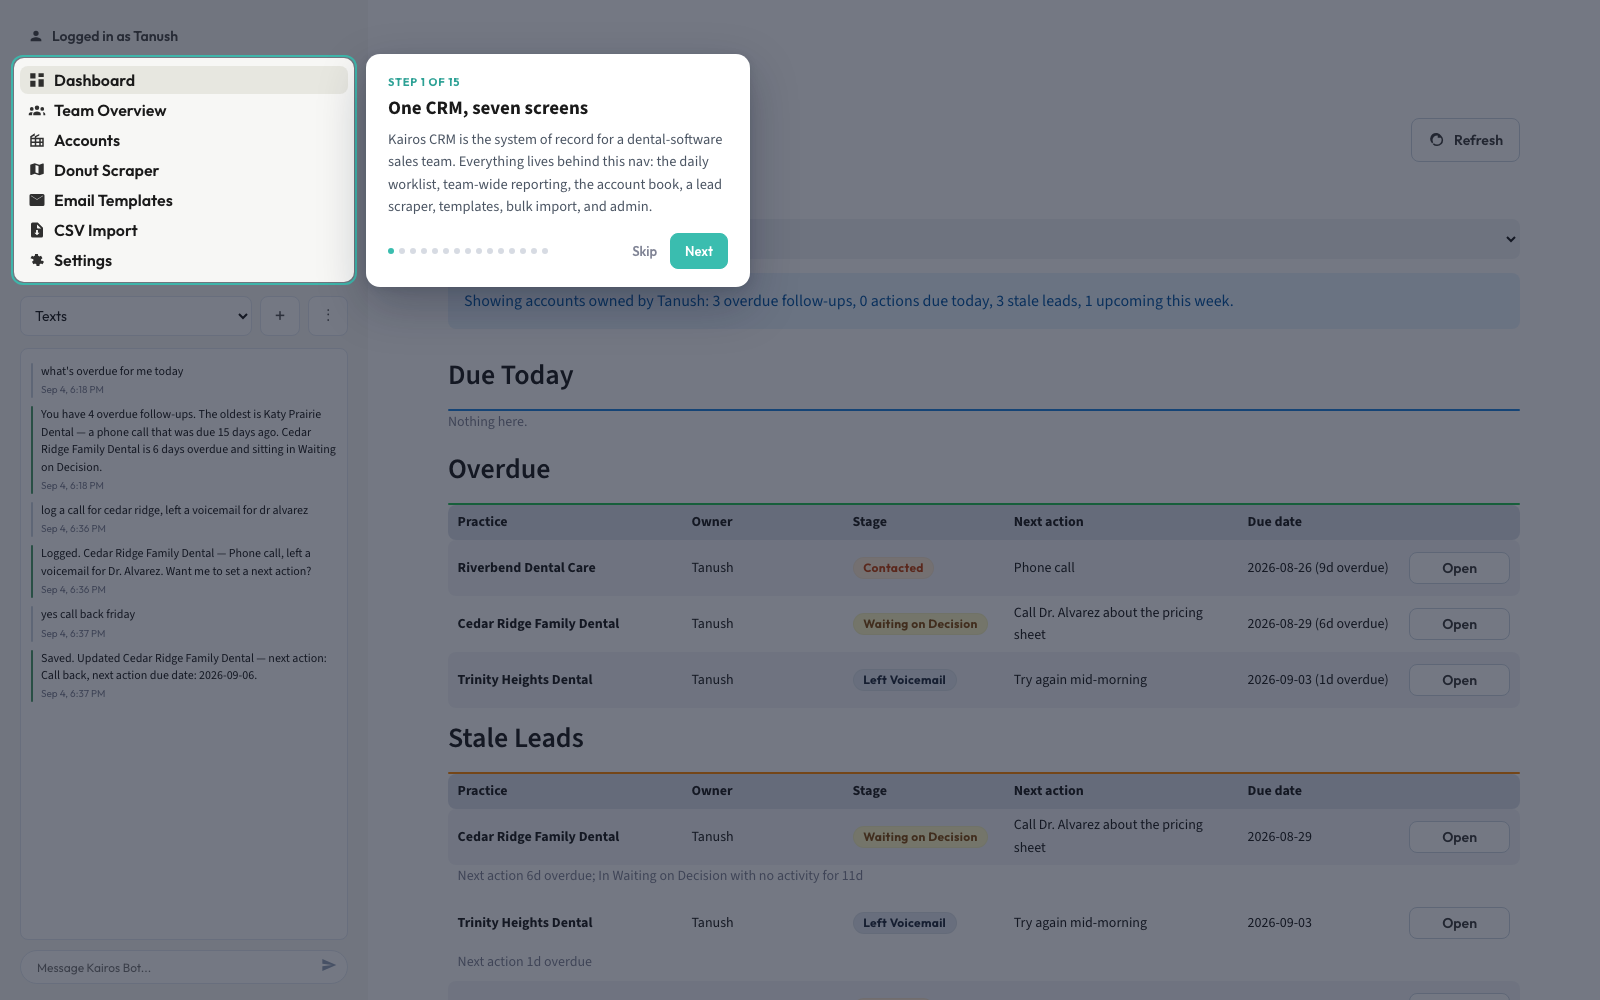
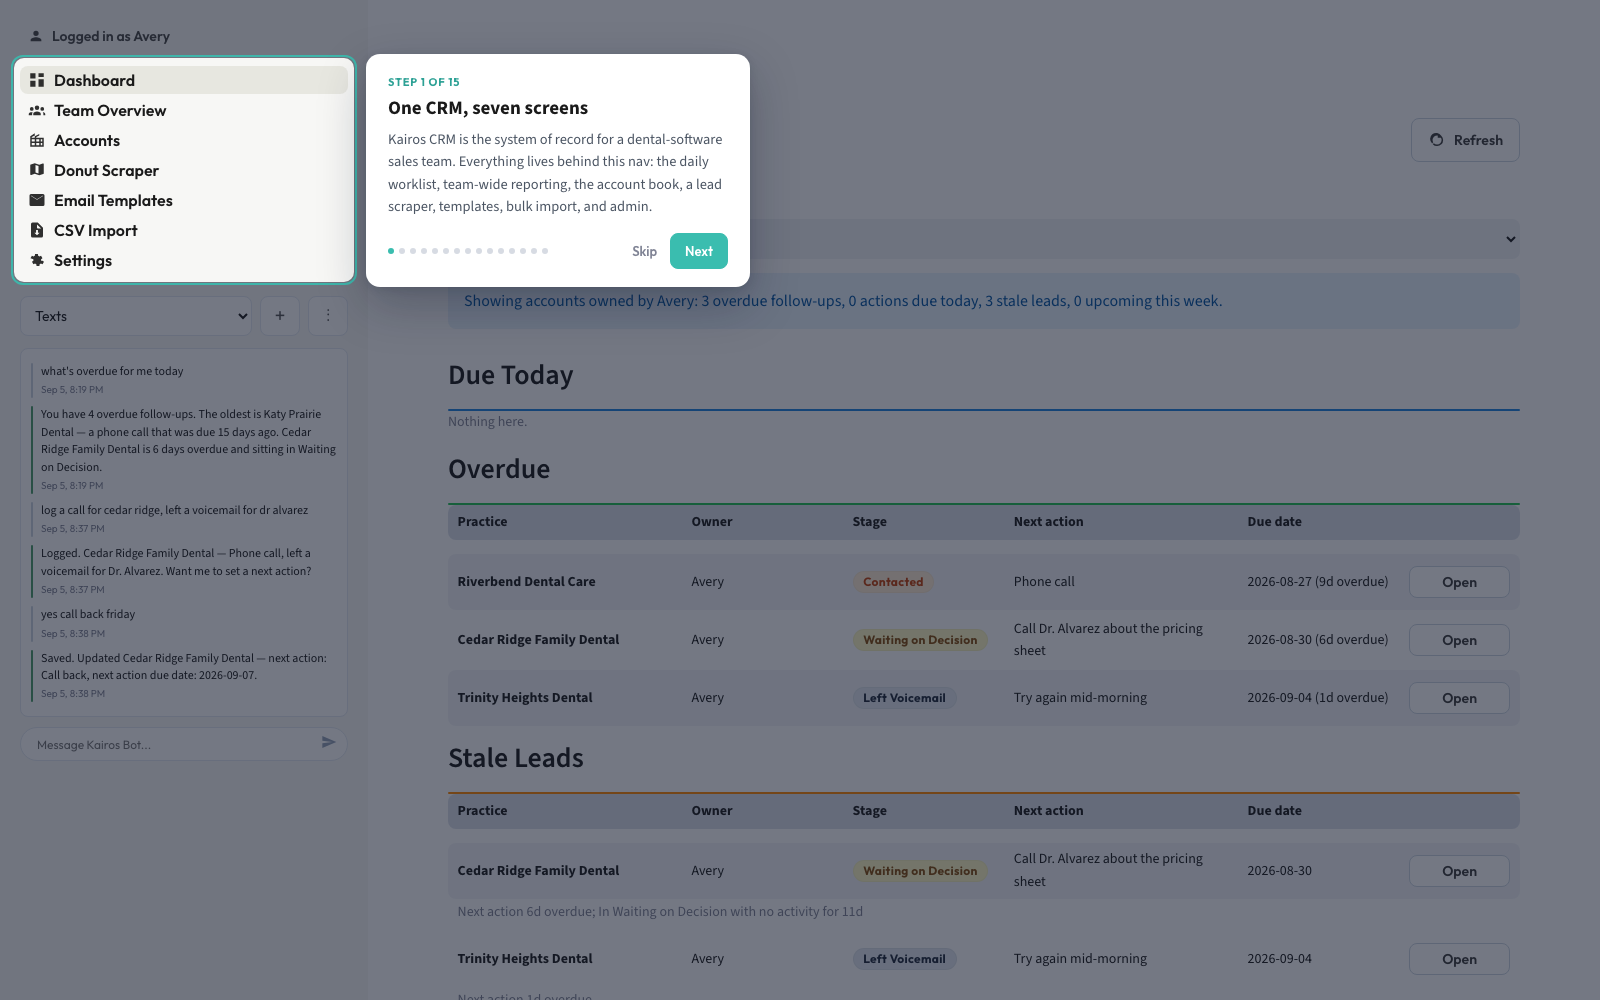
Replace real team names with test names throughout
Seed and demo data now use Avery/Jordan/Riley/Morgan/Quinn/Elliot; prose
references to specific people in the spec and code comments are neutralised
to roles. README screenshots regenerated.

diff --git a/docs/js/data.js b/docs/js/data.js
@@ -5,12 +5,12 @@
    ------------------------------------------------------------------ */
 
 const USERS = [
-  { id: 1, name: "Tanush", active: true },
-  { id: 2, name: "Aditya", active: true },
-  { id: 3, name: "Sanjana", active: true },
-  { id: 4, name: "Adhira", active: true },
-  { id: 5, name: "Yajat", active: true },
-  { id: 6, name: "Aneesh", active: true },
+  { id: 1, name: "Avery", active: true },
+  { id: 2, name: "Jordan", active: true },
+  { id: 3, name: "Riley", active: true },
+  { id: 4, name: "Morgan", active: true },
+  { id: 5, name: "Quinn", active: true },
+  { id: 6, name: "Elliot", active: true },
   { id: 7, name: "Tester", active: false },
 ];
 
@@ -368,7 +368,7 @@ const TEMPLATES = [
 
 const SCRAPE_RUNS = [
   { id: 1, run_name: "Frisco / Plano corridor — " + isoOffset(-1), location: "Frisco, TX",
-    total: 34, fresh: 31, reused: 3, promoted: 12, created_by: "Yajat", when: isoOffset(-1) + " at 4:12 PM CT", saved: true,
+    total: 34, fresh: 31, reused: 3, promoted: 12, created_by: "Quinn", when: isoOffset(-1) + " at 4:12 PM CT", saved: true,
     center: [33.1507, -96.8236],
     clinics: [
       { name: "Stonebriar Dental Excellence", addr: "2601 Preston Rd, Frisco, TX", rating: 4.8, reviews: 212, status: "Interested", lat: 33.1002, lng: -96.8067, phone: "(469) 555-0187" },
@@ -379,7 +379,7 @@ const SCRAPE_RUNS = [
       { name: "Willow Bend Dental Care", addr: "6101 Windhaven Pkwy, Plano, TX", rating: 4.5, reviews: 121, status: "Not Called", lat: 33.0603, lng: -96.8321, phone: "(972) 555-0279" },
     ] },
   { id: 2, run_name: "North Houston sweep — " + isoOffset(-4), location: "Houston, TX",
-    total: 73, fresh: 68, reused: 5, promoted: 9, created_by: "Tanush", when: isoOffset(-4) + " at 6:33 PM CT", saved: true,
+    total: 73, fresh: 68, reused: 5, promoted: 9, created_by: "Avery", when: isoOffset(-4) + " at 6:33 PM CT", saved: true,
     center: [29.9, -95.45],
     clinics: [
       { name: "Magnolia Park Dental", addr: "4410 Navigation Blvd, Houston, TX", rating: 4.3, reviews: 78, status: "Not Called", lat: 29.7519, lng: -95.3121, phone: "(281) 555-0134" },
@@ -388,7 +388,7 @@ const SCRAPE_RUNS = [
       { name: "Vintage Park Dental", addr: "10920 Louetta Rd, Houston, TX", rating: 4.9, reviews: 401, status: "Not Called", lat: 29.9912, lng: -95.5701, phone: "(832) 555-0344" },
     ] },
   { id: 3, run_name: "Austin pilot zone — " + isoOffset(-9), location: "Austin, TX",
-    total: 21, fresh: 21, reused: 0, promoted: 4, created_by: "Sanjana", when: isoOffset(-9) + " at 11:04 AM CT", saved: false,
+    total: 21, fresh: 21, reused: 0, promoted: 4, created_by: "Riley", when: isoOffset(-9) + " at 11:04 AM CT", saved: false,
     center: [30.30, -97.75],
     clinics: [
       { name: "Willow Creek Orthodontics", addr: "4200 S Lamar Blvd, Austin, TX", rating: 4.9, reviews: 356, status: "Interested", lat: 30.2358, lng: -97.7891, phone: "(512) 555-0190" },

diff --git a/supabase/functions/sendblue-bot/index.ts b/supabase/functions/sendblue-bot/index.ts
@@ -232,7 +232,7 @@ function tokenSortRatio(a: string, b: string): number {
 // first. Used to push back before the bot coins a near-duplicate (e.g. a new
 // "Follow-up text" activity type when "Text sent" already exists). 65 is a
 // starting default, like NAME_SIMILARITY_THRESHOLD in utils/dedup.py — not
-// tuned; flag to Yajat rather than silently adjusting if it misses or
+// tuned; flag to the product owner rather than silently adjusting if it misses or
 // over-triggers on real traffic.
 function topSimilar(candidate: string, options: string[], limit = 2): string[] {
   return options

diff --git a/utils/dedup.py b/utils/dedup.py
@@ -14,10 +14,10 @@ import re
 
 from rapidfuzz import fuzz
 
-# Starting default per Yajat, same spirit as the Donut Scraper's 0.85 IoU
+# Starting default per the product owner, same spirit as the Donut Scraper's 0.85 IoU
 # threshold: loose enough for "Sunshine Dentistry" vs "Sunshine Dental",
 # strict enough not to flag unrelated practices sharing a common word.
-# Flag to Yajat if it misbehaves in real usage — do not silently adjust.
+# Flag to the product owner if it misbehaves in real usage — do not silently adjust.
 NAME_SIMILARITY_THRESHOLD = 85
 
 _GENERIC_NAME_WORDS = re.compile(

diff --git a/db/client.py b/db/client.py
@@ -23,7 +23,7 @@ def get_client() -> Client:
     if not url or not key:
         raise RuntimeError(
             "SUPABASE_URL / SUPABASE_KEY not configured. This CRM requires its "
-            "dedicated Supabase project (being created by Tanush) — set the "
+            "dedicated Supabase project (provisioned separately) — set the "
             "credentials in .env or Streamlit secrets and run schema.sql there "
             "first. Do not point this at the lead-gen project or a local Postgres."
         )

diff --git a/CRM_SPEC.md b/CRM_SPEC.md
@@ -1,7 +1,7 @@
 # Kairos CRM — Feature Spec for Claude Code
 
 **Repo:** New repo, separate from `kairosleadgen` (see rationale in Section 1).
-**Status:** Ready to build. This spec is meant to be unambiguous enough that you should not need to ask Yajat clarifying questions before starting.
+**Status:** Ready to build. This spec is meant to be unambiguous enough that you should not need to ask the product owner clarifying questions before starting.
 **How to use this document:** If a `CLAUDE.md` exists in this new repo by the time you read this, that file's hard rules (style conventions, comment policy, etc.) apply on top of this spec. This document defines feature behavior; it does not replace repo-level style conventions.
 
 **Action required from you (Claude Code) before writing any code — see Section 9.** Two pieces of this spec (duplicate-detection logic, Google Sheet output structure) intentionally point you at the sibling `kairosleadgen` repo instead of re-specifying the logic here. Go read the actual code before building the equivalent CRM features. Do not guess at either.
@@ -10,7 +10,7 @@
 
 ## 1. Context — why this is a separate repo from `kairosleadgen`
 
-`kairosleadgen` (Donut Scraper + lead-gen scoring) is a "run occasionally, get output, walk away" tool — Yajat or Tanush kicks off a search, consumes a Google Sheet, done. This CRM is the opposite: Tanush, Aditya, Sanjana, and Adhira are expected to be in it constantly, logging every visit/call/email and checking the dashboard for overdue follow-ups. That's a different reliability bar — a broken experimental deploy on the scraper side should never be able to take down the system of record the team relies on to not drop leads. Separate repo, separate deploy, on purpose.
+`kairosleadgen` (Donut Scraper + lead-gen scoring) is a "run occasionally, get output, walk away" tool — a rep kicks off a search, consumes a Google Sheet, done. This CRM is the opposite: Avery, Jordan, Riley, and Morgan are expected to be in it constantly, logging every visit/call/email and checking the dashboard for overdue follow-ups. That's a different reliability bar — a broken experimental deploy on the scraper side should never be able to take down the system of record the team relies on to not drop leads. Separate repo, separate deploy, on purpose.
 
 This CRM is also relationally structured (accounts → contacts → activities, with filtering/sorting/search/duplicate-detection) rather than export-oriented like the scraper tools' Google Sheets output. It needs a real database from day one, not a Sheets writer.
 
@@ -22,13 +22,13 @@ This CRM is also relationally structured (accounts → contacts → activities, 
 
 - **Frontend:** Streamlit, same as the rest of Kairos's internal tooling — consistent with existing team tooling, fast to build, acceptable for this use case for the reason below.
 - **Backend/database:** Supabase (Postgres), via `supabase-py`. **This is a hard requirement, not a suggestion** — this CRM is a real system of record with relational data (accounts, contacts, activities) and needs actual query/filter/index capability that a flat file or Sheet cannot support at this record volume.
-- **Blocking dependency:** a new, dedicated Supabase project for this CRM, separate from whatever project the `kairosleadgen` migration eventually lands in. Yajat is getting this created by Tanush on the company Supabase account. **If this project doesn't exist yet when you start building, stop and flag it — do not build against a placeholder/local Postgres instance and hope to swap it later.** Connection details will be provided via `.env` / Streamlit secrets once the project exists.
+- **Blocking dependency:** a new, dedicated Supabase project for this CRM, separate from whatever project the `kairosleadgen` migration eventually lands in. The product owner is having this created on the company Supabase account. **If this project doesn't exist yet when you start building, stop and flag it — do not build against a placeholder/local Postgres instance and hope to swap it later.** Connection details will be provided via `.env` / Streamlit secrets once the project exists.
 
 ### Why Streamlit is acceptable here despite being a multi-user app
 
 Streamlit has no built-in cross-session state — two people on two devices are fully isolated `st.session_state` instances. That's fine here **only because Supabase is the single source of truth for every read and write**; nothing meaningful lives in `st.session_state` beyond ephemeral UI state (the currently-selected user, form-in-progress values, filter selections). Every list/dashboard view queries Supabase fresh. This avoids any actual state conflict between concurrent users — there's nothing to conflict, because nothing is cached across a meaningful window.
 
-The real limitation this creates: Streamlit will not proactively push Aditya's new activity log entry onto Tanush's already-open dashboard. Tanush has to trigger a rerun to see it. Do not try to build true push/websocket-based live sync — that's real engineering effort for a problem this team can tolerate. Instead:
+The real limitation this creates: Streamlit will not proactively push Jordan's new activity log entry onto Avery's already-open dashboard. Avery has to trigger a rerun to see it. Do not try to build true push/websocket-based live sync — that's real engineering effort for a problem this team can tolerate. Instead:
 - Add a manual "Refresh" button, prominent, on the Dashboard and Accounts pages.
 - Add a lightweight auto-refresh on the **Dashboard specifically** (e.g. `st_autorefresh` component or an equivalent rerun-on-timer, every 60 seconds) since that's the page where staleness matters most (due-today/overdue counts).
 - Do not add auto-refresh to the Accounts detail/edit pages — a rerun while someone is mid-edit of a form would blow away unsaved input. Only add it to read-only dashboard views.
@@ -37,27 +37,27 @@ The real limitation this creates: Streamlit will not proactively push Aditya's n
 
 ## 3. Explicit access model (no auth)
 
-**Decision, confirmed by Yajat: no password-based authentication.** This is an internal tool for four named people who fully trust each other and are meant to see each other's data. Do not build a login system, do not add Supabase Auth, do not add row-level security scoped per-user.
+**Decision, confirmed by the product owner: no password-based authentication.** This is an internal tool for four named people who fully trust each other and are meant to see each other's data. Do not build a login system, do not add Supabase Auth, do not add row-level security scoped per-user.
 
 **What to build instead — a user-select landing screen:**
-- On app load (or if no user is currently selected in `st.session_state`), show a simple screen with four buttons/tiles: **Tanush, Aditya, Sanjana, Adhira** (pulled from the `users` table — see Section 4 — not hardcoded, since it must be admin-editable).
+- On app load (or if no user is currently selected in `st.session_state`), show a simple screen with four buttons/tiles: **Avery, Jordan, Riley, Morgan** (pulled from the `users` table — see Section 4 — not hardcoded, since it must be admin-editable).
 - Selecting one sets `st.session_state['current_user']` for that browser session and proceeds to the app.
-- The selected user is used to **pre-fill** the "Kairos Owner" field on new accounts and new activity log entries. It is always editable/overridable per-entry — someone can log an activity on Sanjana's behalf if needed, no restriction.
+- The selected user is used to **pre-fill** the "Kairos Owner" field on new accounts and new activity log entries. It is always editable/overridable per-entry — someone can log an activity on Riley's behalf if needed, no restriction.
 - Provide a small persistent element (e.g. sidebar) showing "Acting as: [name]" with a way to switch users without reloading the whole app.
-- **This is a convenience default, not identity enforcement.** There is nothing stopping someone from selecting a different name than their own. That's an accepted tradeoff per Yajat's explicit call — don't over-engineer around it.
+- **This is a convenience default, not identity enforcement.** There is nothing stopping someone from selecting a different name than their own. That's an accepted tradeoff per the product owner's explicit call — don't over-engineer around it.
 
 ---
 
 ## 4. Admin-editable enums
 
-Two fields must be editable by the team without a code deploy, per Yajat's explicit instruction — implement as real tables, not hardcoded Python lists/enums:
+Two fields must be editable by the team without a code deploy, per the product owner's explicit instruction — implement as real tables, not hardcoded Python lists/enums:
 
 - **`users`** table: `id`, `name`, `active` (boolean). Used both for the landing-screen selector (Section 3) and the "Kairos Owner" dropdown throughout the app. Deactivating someone (rather than deleting) should remove them from the active picker/dropdown without breaking historical records that reference them.
 - **`channel_types`** table: `id`, `label`, `active` (boolean). Seed with the PDF's initial list (Donut Visit, Cold Visit, Apollo Cold Outreach, Conference, Referral, Other) but the team must be able to add/deactivate entries later.
 
 Build a simple admin/settings page in the app for managing both tables (add new, toggle active) — doesn't need to be fancy, just functional.
 
-**Everything else enumerated in the PDF (pipeline stages, activity types, lost reasons, current-tool list, demo status) stays as fixed application-level choices for v1** — Yajat did not ask for these to be admin-editable, and expanding every enum into an editable table is scope creep beyond what was requested. If the team wants one of these editable later, it's a small follow-up, not something to speculatively build now.
+**Everything else enumerated in the PDF (pipeline stages, activity types, lost reasons, current-tool list, demo status) stays as fixed application-level choices for v1** — the product owner did not ask for these to be admin-editable, and expanding every enum into an editable table is scope creep beyond what was requested. If the team wants one of these editable later, it's a small follow-up, not something to speculatively build now.
 
 ---
 
@@ -188,7 +188,7 @@ Auto-refresh this page every ~60 seconds (Section 2) plus a manual refresh butto
 
 ## 8. CSV import
 
-Per Yajat's explicit call: build the real column-mapping version, not a fixed-header shortcut, even though the source PDF called this "doesn't need to be perfect." Column mapping is the literal ask in the source spec and is meaningfully more usable — worth the extra build time.
+Per the product owner's explicit call: build the real column-mapping version, not a fixed-header shortcut, even though the source PDF called this "doesn't need to be perfect." Column mapping is the literal ask in the source spec and is meaningfully more usable — worth the extra build time.
 
 Flow:
 1. User uploads a CSV.
@@ -209,7 +209,7 @@ There is an existing duplicate-detection script in `kairosleadgen` used to preve
 **Important scope difference — do not port the logic as-is:** the `kairosleadgen` script dedupes **exact Google Place ID matches** within a single scraper run. This CRM's duplicate problem is different: comparing a newly typed or imported account against existing CRM rows, most of which have **no Place ID at all** (Apollo leads, conference contacts, referrals aren't sourced from Google Places). So reuse the *approach/pattern* where applicable, but the actual matching logic for this feature needs to be:
 
 - **Exact match (high confidence, always flag):** identical phone number, email, or website across accounts.
-- **Fuzzy match (flag for review, don't auto-block):** similar practice name **within the same city** — use a string-similarity library (e.g. `rapidfuzz`) with a starting threshold in a similar spirit to the 0.85 IoU threshold used for the Donut Scraper's tab-matching logic (same underlying philosophy: loose enough to catch near-duplicates like "Sunshine Dentistry" vs "Sunshine Dental," strict enough not to flag unrelated practices that happen to share a common word). Tune empirically; treat as a starting default per Yajat, not a firm requirement — flag to Yajat if it's producing obviously wrong results (too many false flags, or missing clear duplicates) rather than silently adjusting and moving on.
+- **Fuzzy match (flag for review, don't auto-block):** similar practice name **within the same city** — use a string-similarity library (e.g. `rapidfuzz`) with a starting threshold in a similar spirit to the 0.85 IoU threshold used for the Donut Scraper's tab-matching logic (same underlying philosophy: loose enough to catch near-duplicates like "Sunshine Dentistry" vs "Sunshine Dental," strict enough not to flag unrelated practices that happen to share a common word). Tune empirically; treat as a starting default per the product owner, not a firm requirement — flag to the product owner if it's producing obviously wrong results (too many false flags, or missing clear duplicates) rather than silently adjusting and moving on.
 - Applies both to manual account creation (check on save, before insert) and CSV import (Section 8).
 - Always **warn and let the user decide** — never silently block or silently merge. Show what it matched against so the user can judge.
 
@@ -225,7 +225,7 @@ Per the PDF: add, edit, delete, search, sort, filter on the Accounts list. Requi
 
 ## 11. Where things go in the repo
 
-New repo (name TBD by Yajat, e.g. `kairos-crm`). Suggested structure, adjust to match whatever conventions the sibling `kairosleadgen` repo uses for consistency across Kairos's internal tooling (check that repo's `CLAUDE.md` for house style — no emojis, comment conventions, etc. — and apply the same conventions here even though this is a separate repo):
+New repo (name TBD by the product owner, e.g. `kairos-crm`). Suggested structure, adjust to match whatever conventions the sibling `kairosleadgen` repo uses for consistency across Kairos's internal tooling (check that repo's `CLAUDE.md` for house style — no emojis, comment conventions, etc. — and apply the same conventions here even though this is a separate repo):
 
 - `app.py` — Streamlit entry point, `st.navigation([...])`
 - `pages/` — landing/user-select, dashboard, accounts (list + detail), contacts (nested under account detail), email_templates, admin/settings, csv_import
@@ -237,7 +237,7 @@ New repo (name TBD by Yajat, e.g. `kairos-crm`). Suggested structure, adjust to 
 ## 12. Open items — flag back rather than silently deciding
 
 - **Supabase project creation is a blocking dependency** — do not build against a placeholder and assume connection swap-in later will be trivial; confirm the project exists and get real credentials before considering this "done."
-- **Fuzzy-match threshold for name-based duplicate detection** (Section 9) is a starting default, not tuned — flag to Yajat after early real usage if it's producing bad results.
+- **Fuzzy-match threshold for name-based duplicate detection** (Section 9) is a starting default, not tuned — flag to the product owner after early real usage if it's producing bad results.
 - **Whether lost reasons / competitor-tool list should also become admin-editable** — not requested for v1 (Section 4), but likely to come up once the team actually uses this; small follow-up if/when asked.
 - **Eventual Donut Scraper / lead-gen → CRM pipe** — explicitly out of scope for this build (Section 1); don't build toward it speculatively, but don't make a data-model choice now that would make it hard later either (e.g. keeping `source_detail` as free text rather than something too rigid helps here).
 
